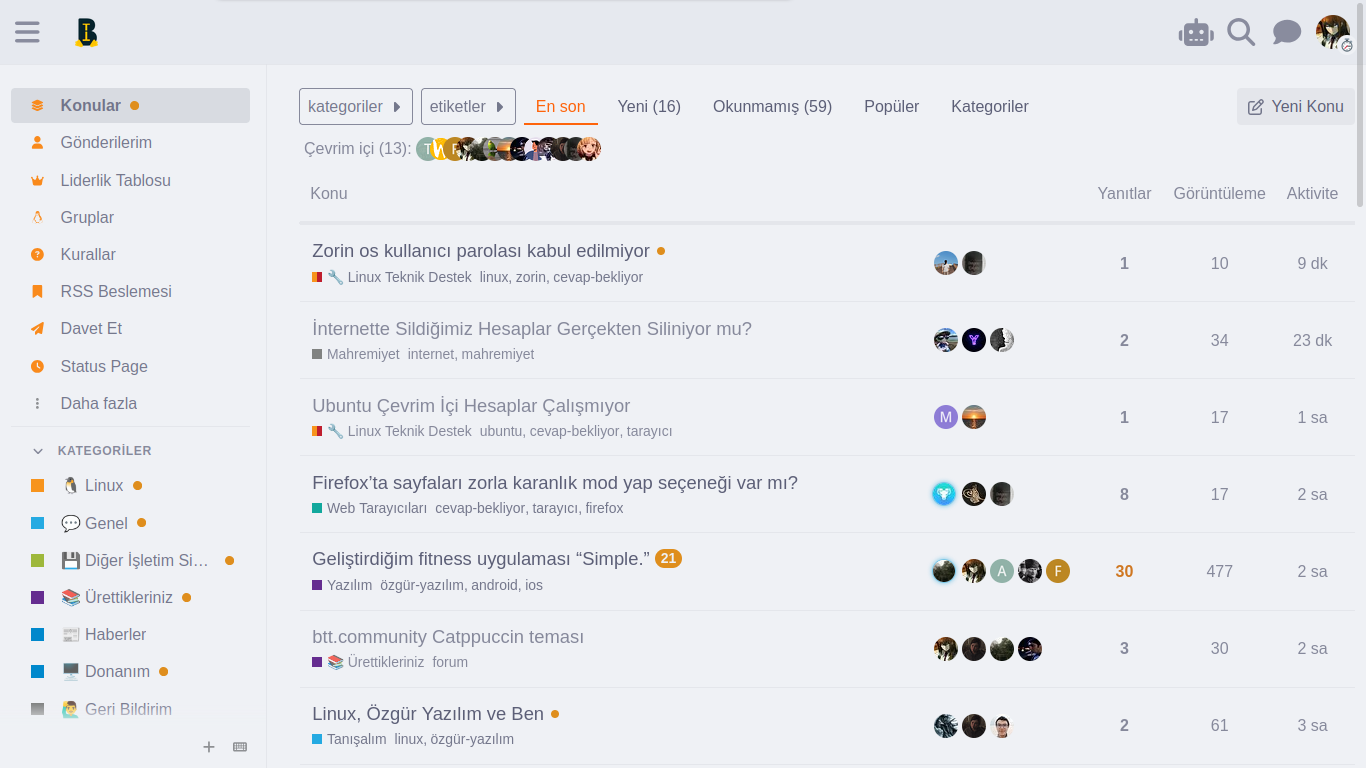
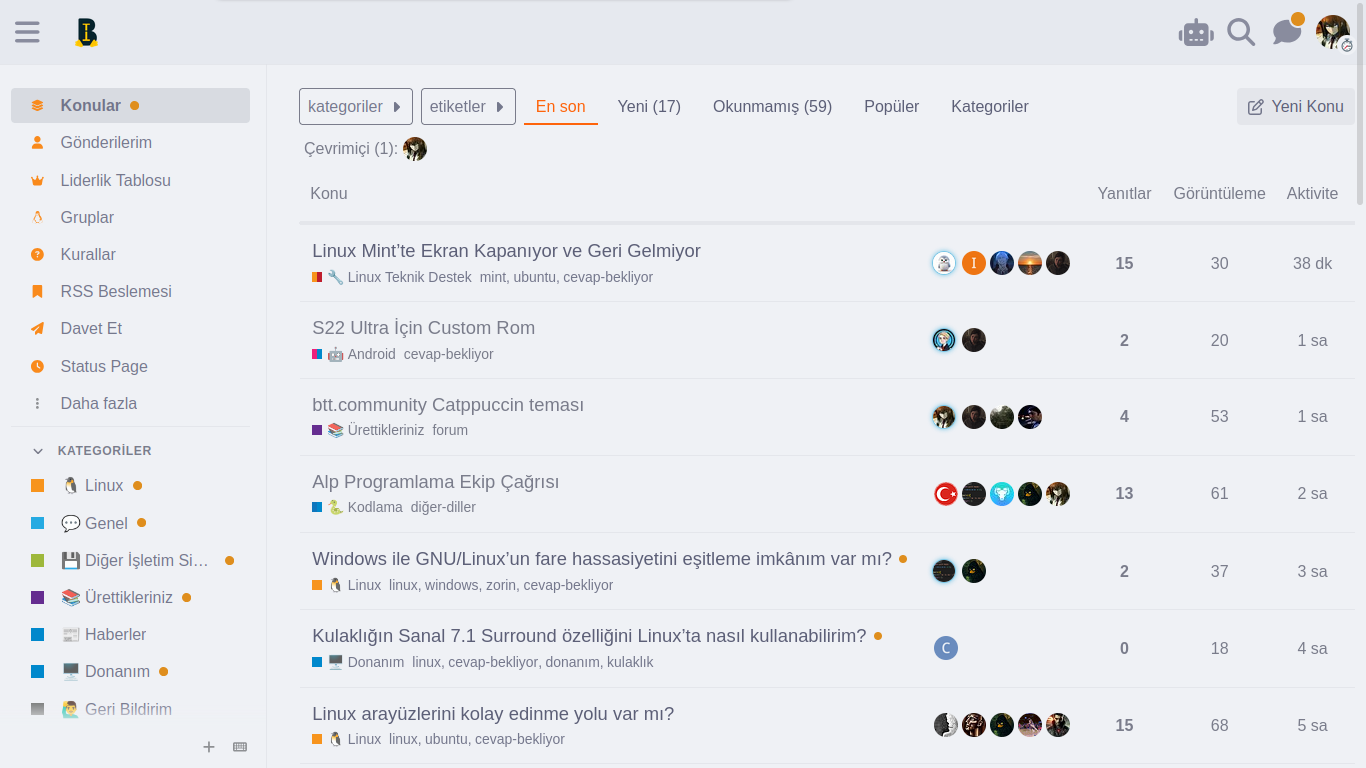
Ufak iyileştirmeler

diff --git a/theme.user.css b/theme.user.css
@@ -1,6 +1,6 @@
 /* ==UserStyle==
 @name         BTT.Community Catppuccin Theme
-@version      20250628.17.25
+@version      20250629.07.00
 @namespace    https://userstyles.world/user/github.com/xeyossr
 @description  btt.community için Catppuccin Teması
 @author       github.com/xeyossr
@@ -10,14 +10,14 @@
 @-moz-document domain("btt.community") {
 html:has(meta[data-color-scheme-is-dark="true"]) {
   
-  --primary:           #bac2de;           
+  --primary:           #cdd6f4;           
   --secondary:         #1e1e2e;           
   --tertiary:          #74c7ec;           
   --quaternary:        #fe640b;           
   --header_background: #181825;
-  --header_primary:    #bac2de;           
+  --header_primary:    #cdd6f4;           
   --highlight:         #fab387;           
-  --danger:            #f38ba8;           
+  --danger:            rgba(243, 139, 168, 0.25);           
   --success:           #a6e3a1;           
   --love:              #f5c2e7;           
   --d-selected:        #313244;           
@@ -32,24 +32,12 @@ html:has(meta[data-color-scheme-is-dark="true"]) {
   --highlight-rgb: 168, 113, 55;
   --success-rgb: 28, 165, 81;
 
-  --primary-very-low: rgba(49, 50, 68, 0.71);
-  --primary-low: rgba(69, 71, 90, 0.63);
-  --primary-low-mid: rgba(147, 153, 178, 0.76);
-  --primary-medium: rgba(166, 173, 200, 0.8);
-  --primary-high: rgba(186, 194, 222, 0.83);
-  --primary-very-high: rgba(205, 214, 244, 0.90);
-  
-  --primary-50:  rgba(49, 50, 68, 0.71);    
-  --primary-100: rgba(49, 50, 68, 0.79);    
-  --primary-200: rgba(69, 71, 90, 0.63);    
-  --primary-300: rgba(108, 112, 134, 0.75); 
-  --primary-400: rgba(147, 153, 178, 0.76); 
-  --primary-500: rgba(166, 173, 200, 0.74); 
-  --primary-600: rgba(166, 173, 200, 0.80); 
-  --primary-700: rgba(186, 194, 222, 0.77); 
-  --primary-800: rgba(186, 194, 222, 0.83); 
-  --primary-900: rgba(205, 214, 244, 0.90); 
-    
+  --primary-very-low:                   rgba(49, 50, 68, 0.71);
+  --primary-low:                       rgba(69, 71, 90, 0.63);
+  --primary-low-mid:                   rgba(147, 153, 178, 0.76);
+  --primary-medium:                    rgba(166, 173, 200, 0.8);
+  --primary-high:                      rgba(205, 214, 244, 0.83);
+  --primary-very-high:                 rgba(205, 214, 244, 0.90);
   --blend-primary-secondary-5:         rgba(69, 71, 90, 0.6);    
   --primary-med-or-secondary-med:      rgba(147, 153, 178, 0.91);
   --primary-med-or-secondary-high:     rgba(108, 112, 134, 1.00);
@@ -60,7 +48,18 @@ html:has(meta[data-color-scheme-is-dark="true"]) {
   --highlight-low-or-medium:           rgba(49, 50, 68, 0.91);   
   --tertiary-or-tertiary-low:          rgba(30, 30, 46, 1.00);   
   --tertiary-low-or-tertiary-high:     rgba(88, 91, 112, 0.98);  
-  
+  --quaternary-low:                    rgba(30, 30, 46, 0.85);
+    
+  --primary-50:    rgba(49, 50, 68, 0.71);    
+  --primary-100:   rgba(49, 50, 68, 0.79);    
+  --primary-200:   rgba(69, 71, 90, 0.63);    
+  --primary-300:   rgba(108, 112, 134, 0.75); 
+  --primary-400:   rgba(147, 153, 178, 0.76); 
+  --primary-500:   rgba(166, 173, 200, 0.74); 
+  --primary-600:   rgba(166, 173, 200, 0.80); 
+  --primary-700:   rgba(186, 194, 222, 0.77); 
+  --primary-800:   rgba(186, 194, 222, 0.83); 
+  --primary-900:   rgba(205, 214, 244, 0.90);
   --tertiary-25:   rgba(30, 30, 46, 0.72); 
   --tertiary-50:   rgba(30, 30, 46, 0.90); 
   --tertiary-100:  rgba(30, 30, 46, 1.00); 
@@ -73,26 +72,18 @@ html:has(meta[data-color-scheme-is-dark="true"]) {
   --tertiary-800:  rgba(88, 91, 112, 0.90);
   --tertiary-900:  rgba(88, 91, 112, 0.98);
 
-  --quaternary-low: rgba(30, 30, 46, 0.85);
-
   --google:               #ffffff;                   
   --google-hover:         rgba(205, 214, 244, 0.15); 
-
   --instagram:            #f38ba8;                   
   --instagram-hover:      rgba(243, 139, 168, 0.85); 
-
   --facebook:             #89b4fa;                   
   --facebook-hover:       rgba(137, 180, 250, 0.85); 
-
   --cas:                  #a6e3a1;                   
-
   --twitter:              #cdd6f4;                   
   --github:               #1e1e2e;                   
   --github-hover:         rgba(49, 50, 68, 0.85);    
-
   --discord:              #b4befe;                   
   --discord-hover:        rgba(180, 190, 254, 0.85); 
-
   --gold:                 #f9e2af; 
   --silver:               #cdd6f4; 
   --bronze:               #fab387; 
@@ -102,7 +93,6 @@ html:has(meta[data-color-scheme-is-dark="true"]) {
   --shadow-card:          0 4px 14px rgba(30, 30, 46, 0.5);   
   --shadow-dropdown:      0 2px 12px 0 rgba(30, 30, 46, 0.25);
   --shadow-footer-nav:    0 0 2px 0 rgba(30, 30, 46, 0.4);    
-
     
   --header_primary-low:         rgba(108, 112, 134, 0.72);
   --header_primary-low-mid:     rgba(166, 173, 200, 0.76);
@@ -114,36 +104,34 @@ html:has(meta[data-color-scheme-is-dark="true"]) {
   --secondary-medium:           rgba(147, 153, 178, 0.91);
   --secondary-high:             rgba(108, 112, 134, 1.00);
   --secondary-very-high:        rgba(49, 50, 68, 0.89);   
-
-  --tertiary-very-low:   rgba(30, 30, 46, 0.85);   
-  --tertiary-low:        rgba(30, 30, 46, 1.00);   
-  --tertiary-medium:     rgba(69, 71, 90, 0.91);   
-  --tertiary-high:       rgba(88, 91, 112, 0.98);  
-  --tertiary-hover:      rgba(147, 153, 178, 0.98);
-
-  --highlight-bg:        rgba(30, 30, 46, 0.63); 
-  --highlight-low:       rgba(30, 30, 46, 0.63); 
-  --highlight-medium:    rgba(49, 50, 68, 0.91); 
-  --highlight-high:      rgba(88, 91, 112, 1.00);
-
-  --danger-low:                 rgba(210, 15, 57, 0.75);
-  --danger-low-mid:            rgba(210, 15, 57, 0.80);
-  --danger-medium:             rgba(210, 15, 57, 0.85);
-  --danger-high:               rgba(210, 15, 57, 0.95);
-  --danger-hover:              rgba(210, 15, 57, 1.00);
+  --tertiary-very-low:          rgba(30, 30, 46, 0.85);   
+  --tertiary-low:               rgba(30, 30, 46, 1.00);   
+  --tertiary-medium:            rgba(69, 71, 90, 0.91);   
+  --tertiary-high:              rgba(88, 91, 112, 0.98);
+  --tertiary-hover:             rgba(116, 199, 236, 0.85);
+  --highlight-bg:               rgba(30, 30, 46, 0.63); 
+  --highlight-low:              rgba(30, 30, 46, 0.63); 
+  --highlight-medium:           rgba(49, 50, 68, 0.91); 
+  --highlight-high:             rgba(88, 91, 112, 1.00);
+  --danger-low:                 rgba(243, 139, 168, 0.85);
+  --danger-low-mid:             rgba(210, 15, 57, 0.80);
+  --danger-medium:              rgba(210, 15, 57, 0.85);
+  --danger-high:                rgba(210, 15, 57, 0.95);
+  --danger-hover:               #f38ba8;
     
-  --d-button-danger-icon-color--hover: rgba(255, 255, 255, 0.85);
-  --d-button-default-bg-color: rgba(69, 71, 90, 0.25);
-  --d-button-default-bg-color--hover: rgba(69, 71, 90, 0.38);
-  --d-button-default-icon-color--hover: rgba(186, 194, 222, 0.83);
-  --d-button-default-text-color--hover: #bac2de;
+  --d-button-danger-icon-color--hover: rgba(30, 30, 46, 0.85);
+  --d-button-default-bg-color: rgba(88, 91, 112, 0.25);
+  --d-button-default-bg-color--hover: rgba(88, 91, 112, 0.38);
+  --d-button-default-icon-color--hover: rgba(205, 214, 244, 0.95);
+  --d-button-default-text-color--hover: #cdd6f4;
+  --d-sidebar-highlight-hover-icon: rgba(205, 214, 244, 0.75);
+  --d-sidebar-highlight-hover-background: rgba(88, 91, 112, 0.8);
     
   --success-low:       rgba(30, 102, 60, 0.75);
   --success-medium:    rgba(64, 160, 43, 0.85);
   --success-hover:     rgba(64, 160, 43, 1.00);
-
-  --love-low:          rgba(234, 118, 203, 0.75); 
-
+  --love-low:          rgba(234, 118, 203, 0.75);
+    
   --hljs-attr:        #89dceb;
   --hljs-attribute:   #cba6f7;
   --hljs-addition:    #a6e3a1;
@@ -193,14 +181,14 @@ html:has(meta[data-color-scheme-is-dark="false"]) {
   --highlight-rgb: 254, 100, 11;
   --success-rgb: 64, 160, 43;
 
-  --primary-very-low: rgba(204, 208, 218, 0.71);
+  --primary-very-low: rgba(172, 176, 192, 0.71);
   --primary-low: rgba(221, 224, 230, 0.63);
   --primary-low-mid: rgba(124, 127, 147, 0.76);
-  --primary-medium: rgba(108, 111, 133, 0.80);
+  --primary-medium: rgba(92, 95, 112, 0.80);
   --primary-high: rgba(92, 95, 119, 0.83);
   --primary-very-high: rgba(76, 79, 105, 0.90);
   
-  --primary-50:  rgba(204, 208, 218, 0.71);    
+  --primary-50:  rgba(172, 176, 192, 0.71);    
   --primary-100: rgba(204, 208, 218, 0.79);    
   --primary-200: rgba(188, 192, 204, 0.63);    
   --primary-300: rgba(156, 160, 176, 0.25); 
@@ -296,8 +284,10 @@ html:has(meta[data-color-scheme-is-dark="false"]) {
   --d-button-default-bg-color--hover: rgba(222, 224, 228, 1);
   --d-button-default-icon-color--hover: rgba(92, 95, 119, 0.83);
   --d-button-default-text-color--hover: rgba(92, 95, 119, 0.83);
-  --d-button-danger-icon-color: rgba(255, 255, 255, 0.75);
-  --d-button-danger-icon-color--hover: rgba(255, 255, 255, 0.85);
+  --d-sidebar-highlight-hover-background: rgba(172, 176, 192, 0.25);
+  --d-sidebar-highlight-hover-icon: rgba(92, 95, 112, 0.80);
+  --d-button-danger-icon-color: #eff1f5;
+  --d-button-danger-icon-color--hover: #eff1f5;
   --d-button-primary-bg-color--hover: #e64500;
     
   --success-low:       rgba(30, 102, 60, 0.75);
@@ -335,7 +325,11 @@ html:has(meta[data-color-scheme-is-dark="false"]) {
   }
   
   .topic-owner span.username:not(.embedded-reply .names .username) {
-    background-color: #a97458 !important;
+    background-color: #F7941D !important;
+  }
+  
+  .topic-owner .names a {
+      color: #fff6e5 !important;
   }
 }
 }
